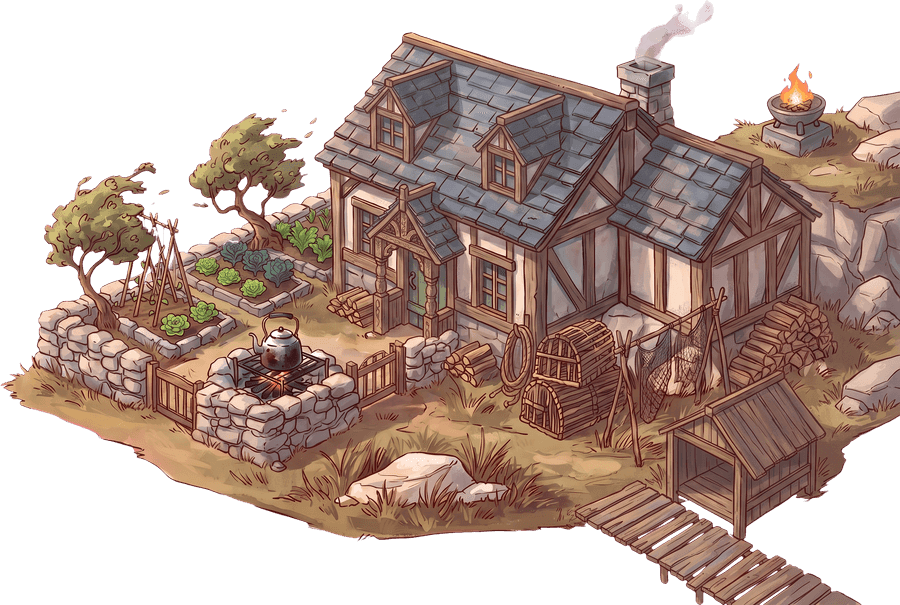
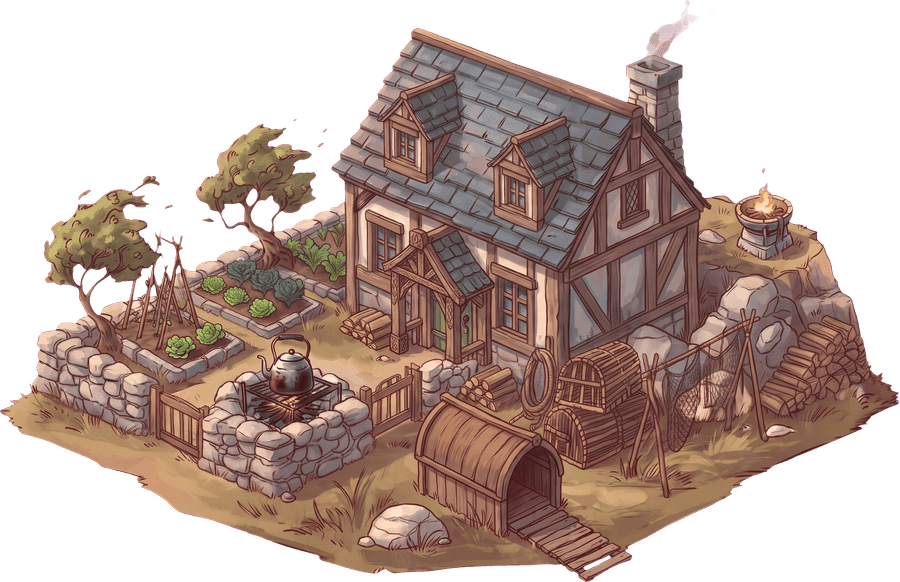
Home: the great hall and the Estate fit in the frame
Both were chopped. The Estate lost the right side of its lighthouse and the
bottom-right corner of its jetty; the great hall it was chained from lost its
brazier rock and its woodpile off the right edge.

My own rung-4 prompt asked for "a slipway of worn planks running out of the
frame", so the model did exactly that, and because the rungs are chained rung 5
inherited the crop and added one of its own with a lighthouse shoved against the
right edge. A framing instruction buried at the end of a long style block also
loses to whatever the composition wants to do, so it leads now, in its own
paragraph, and is repeated in the avoid list.

Rungs 1 to 3 were fine and are untouched. Rung 4 re-chains from the LIVE
home-isle-3.png off the site rather than from a plate that no longer exists
locally, which is transparent instead of magenta, so the prompt says so.

Verified by measuring the magenta margin on all four sides of each plate rather
than by looking: every side is clear, so nothing runs off. The fire ring lit
under the lean-to is still burning outside the Estate.

diff --git a/web/art/home-isle-refit.py b/web/art/home-isle-refit.py
@@ -1,0 +1,84 @@
+# -*- coding: utf-8 -*-
+"""
+RUNGS 4 AND 5 AGAIN, THIS TIME FITTING IN THE FRAME.
+
+Both were chopped: the Great hall lost its brazier rock and woodpile off the
+right edge, and the Estate lost the right side of its lighthouse and the whole
+bottom-right corner of its jetty. My own rung-4 prompt asked for "a slipway of
+worn planks running out of the frame", so the model did exactly that and rung 5
+inherited it, plus a lighthouse pushed hard against the right edge.
+
+Rungs 1 to 3 are fine and are NOT touched. Rung 4 chains from the live rung-3
+png instead, which is transparent rather than magenta, so the prompt says so.
+"""
+import sys, pathlib
+sys.path.insert(0, str(pathlib.Path(__file__).parent))
+from chain import generate, STYLE, AVOID, OUT   # noqa: E402
+
+RUNG_3 = "https://www.seasthebooty.com/sea/home-isle-3.png"
+
+# ── THE FIX ─────────────────────────────────────────────────────────────────
+# Stated first, in its own paragraph, and repeated in the avoid list. Framing
+# instructions buried at the end of a long style block get outvoted by whatever
+# the composition wants to do.
+FRAME = (
+    "FRAMING, AND THIS IS THE MOST IMPORTANT INSTRUCTION: the ENTIRE scene must fit "
+    "COMPLETELY INSIDE the image. Every building, every rock, every tree, every plank and the "
+    "whole patch of ground must be fully visible, with a clear even margin of empty magenta "
+    "background on ALL FOUR SIDES - top, bottom, left and right. NOTHING touches any edge of the "
+    "image and NOTHING is cut off by it. Zoom the camera out far enough that everything fits with "
+    "room to spare. Do not crop the lighthouse, do not crop the jetty, do not crop the ground.\n\n"
+)
+
+KEEP_3 = (
+    "The reference image is the same small island, drawn on a transparent background. KEEP "
+    "EVERYTHING IN IT EXACTLY AS IT IS: the same viewpoint, the same angle, the same ground and "
+    "rocks in the same places, the same light and shadow direction, the same painting style. The "
+    "longhouse, the walled garden, the trees, the drying rack, the woodpile, the fire ring and the "
+    "path must all stay exactly where they are. Render your version on a FLAT SOLID PURE MAGENTA "
+    "background, hex FF00FF.\n\nCHANGE ONLY THIS: "
+)
+
+KEEP_4 = (
+    "This is the same small island. KEEP EVERYTHING EXACTLY AS IT IS: the same viewpoint, the same "
+    "angle, the same ground and rocks in the same places, the same light and shadow direction, the "
+    "same painting style, the same flat magenta background. The great hall, the walled garden, the "
+    "trees, the drying rack, the woodpile, the boathouse and the path must all stay exactly where "
+    "they are.\n\nCHANGE ONLY THIS: "
+)
+
+BODY_4 = (
+    "raise the longhouse into a two-storey GREAT HALL on the same footprint: a second floor with "
+    "dormer windows, a steeper slate roof, a bigger stone chimney and a carved timber porch over "
+    "the door. Then ADD: on the higher rocky ground behind the hall, a stone BRAZIER on a short "
+    "plinth with a small fire burning in it, drawn COMPLETE and fully inside the frame with "
+    "magenta visible beyond it; and at the near edge of the ground, a small timber BOATHOUSE with "
+    "an open end and a short slipway of worn planks that runs a little way down the ground and "
+    "STOPS, entirely inside the image, with magenta visible below and beyond its end."
+)
+
+BODY_5 = (
+    "finish the great hall into an ESTATE: add a square stone tower with a shallow pitched roof "
+    "onto one end of the hall, dress the walls in cut pale stone, and add a low stone terrace with "
+    "steps down to the path. Then REPLACE the brazier on the high ground behind it with a tall "
+    "white-and-slate LIGHTHOUSE: a tapering round tower with a black gallery rail and a glazed "
+    "lantern room lit warm gold at the top, a small keeper's store at its foot, and a short flight "
+    "of steps up to it. The lighthouse must be drawn COMPLETE from its base to the weathervane on "
+    "its cap, standing well inside the image with a clear band of magenta above it and to its "
+    "right. The boathouse and its slipway stay exactly as they are and stay fully inside the frame."
+)
+
+print("=== home-isle-4")
+url4 = generate(FRAME + KEEP_3 + BODY_4 + "\n\n" + STYLE + "\n\nAvoid: " + AVOID
+                + ", cropped, cut off at the edge, touching the frame edge, bleeding off the image, "
+                  "running out of frame, partially visible building, tight crop",
+                str(OUT / "home-isle-4.png"), refs=[RUNG_3])
+if not url4:
+    sys.exit("rung 4 failed")
+
+print("=== home-isle-5")
+url5 = generate(FRAME + KEEP_4 + BODY_5 + "\n\n" + STYLE + "\n\nAvoid: " + AVOID
+                + ", cropped, cut off at the edge, touching the frame edge, bleeding off the image, "
+                  "running out of frame, partially visible building, tight crop",
+                str(OUT / "home-isle-5.png"), refs=[url4])
+print("done")

diff --git a/web/art/home-isle-chain.py b/web/art/home-isle-chain.py
@@ -183,12 +183,13 @@ RUNGS = [
      "short flight of steps up to it."),
 ]
 
-prev = None
-for name, keep, body in RUNGS:
-    print("===", name)
-    prompt = ((keep + body) if keep else body) + "\n\n" + STYLE + "\n\nAvoid: " + AVOID
-    url = generate(prompt, str(OUT / (name + ".png")), refs=[prev] if prev else None)
-    if not url:
-        print("  GAVE UP on", name); break
-    prev = url
-print("done")
+if __name__ == "__main__":
+    prev = None
+    for name, keep, body in RUNGS:
+        print("===", name)
+        prompt = ((keep + body) if keep else body) + "\n\n" + STYLE + "\n\nAvoid: " + AVOID
+        url = generate(prompt, str(OUT / (name + ".png")), refs=[prev] if prev else None)
+        if not url:
+            print("  GAVE UP on", name); break
+        prev = url
+    print("done")
